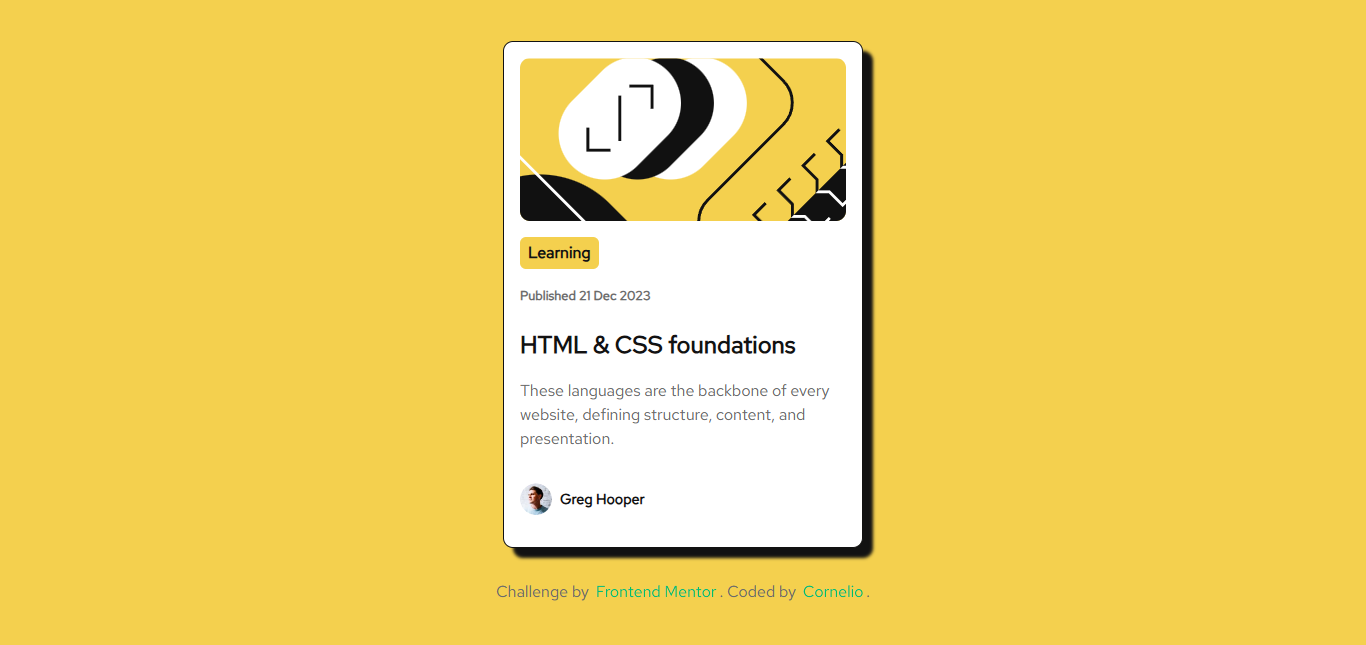
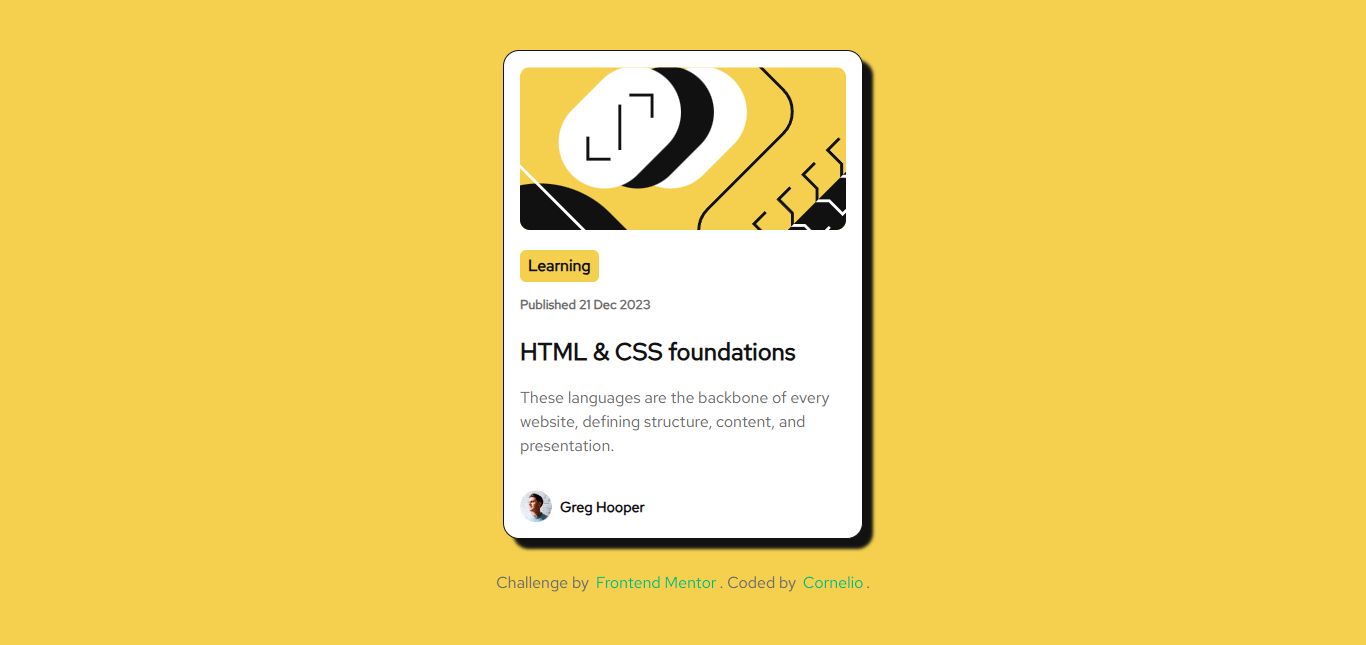
Update blog-preview-card the semantic structue

diff --git a/src/components/Blog-preview-card.vue b/src/components/Blog-preview-card.vue
@@ -1,12 +1,11 @@
 <template>
-  <div class="card-container">
-    <header aria-label="Blog preview card">
-      <img src="/illustration-article.svg?url" alt="illustration-article" type="image/svg" />
-
-    </header>
-    <main>
-      <h2>Learning</h2>
-      <span>Published 21 Dec 2023</span>
+  <main>
+    <div class="card-container">
+      <img src="/illustration-article.svg?url" alt="illustration-article" />
+      <header aria-label="Blog preview card">
+        <h2>Learning</h2>
+        <span>Published 21 Dec 2023</span>
+      </header>
       <section>
         <h1> HTML & CSS foundations</h1>
         <p> These languages are the backbone of every website, defining structure, content, and presentation.</p>
@@ -17,18 +16,17 @@
           Greg Hooper
         </div>
       </aside>
-    </main>
-  </div>
-
-  <footer>
-    <p> Challenge by <a href="https://www.frontendmentor.io?ref=challenge" target="_blank">Frontend Mentor</a>.
-      Coded by <a href="https://github.com/Timex29/blog-preview-card">Cornelio</a>.</p>
-  </footer>
+    </div>
+    <footer>
+      <p> Challenge by <a href="https://www.frontendmentor.io?ref=challenge" target="_blank">Frontend Mentor</a>.
+        Coded by <a href="https://github.com/Timex29/blog-preview-card">Cornelio</a>.</p>
+    </footer>
+  </main>
 </template>
 <style scoped>
 .card-container {
   background-color: var(--white);
-  border-radius: 0.625rem;
+  border-radius: 1rem;
   box-shadow: 0.625rem 0.625rem 0.2rem var(--gray-950);
   margin: 0 auto;
   border: 0.063rem solid var(--gray-950);
@@ -37,12 +35,11 @@
   overflow: hidden;
   margin: 2rem auto;
 }
-
 header {
   display: flex;
   flex-direction: column;
   justify-content: center;
-  align-items: center;
+  align-items: left;
   margin-bottom: 1rem;
 }
 
@@ -78,10 +75,6 @@ span {
   color: var(--gray-500);
   font-size: 0.8rem;
   font-weight: bold;
-}
-
-main {
-  margin-bottom: 1rem;
 }
 
 p {

diff --git a/index.html b/index.html
@@ -1,5 +1,5 @@
 <!doctype html>
-<html lang="">
+<html lang="en-US">
   <head>
     <meta charset="UTF-8" />
     <link rel="icon" type="image/png" sizes="32x32" href="/favicon-32x32.png" />
